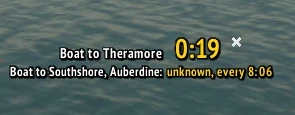
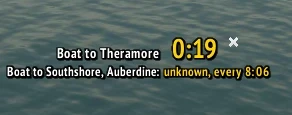
Goblin Ledger: review fixes: bag panel follows the tooltip's live price and ~, phone-sized boat photo
Addon (the stack line itself was already right; these are the surfaces
around it):
- The bag panel now takes the same live price as the tooltip (Core's
  liveFor, exported as ns.TooltipLive): a browse row newer than the loaded
  listings moves both, so the panel's value is the tooltip's stack line.
- The panel's rough flag follows the stack line's "~": with old prices it
  is exact only at the live Sell now; someone dumping (stack at the usual
  price from the file) stays rough, as the tooltip marks it.
- Bags.lua's comment no longer says the totals differ by a few copper.

Harness:
- Every stack line check now also compares the "~": the stack has one
  exactly when the sell line it follows has one (no model).
- stack-photo: 4-hour-old prices with live listings (elixir: no ~, 32,661;
  dumped: ~46,531 at Sell at) and a newer browse row (both 37,981), each on
  the tooltip and the bag panel; the sell-frame check compares the button's
  price with the tooltip's parsed stack instead of two constants.
- tooltip_values_ok reads "AH value (live, x20)".
- Deliberate breaks (stack ~ always with old prices; ~ dropped at Sell at;
  panel on listings only; panel rough rule "not live"; no ns.TooltipLive)
  each fail stack-photo on sim and real data.

Page:
- boat-docked is 296 x 230 (was 430 x 240), so it shows 1:1 on 360 and
  390 px phones and in the two-up tiles; bits of a nameplate behind the
  timer's words are painted over too.
[…]

Changed region(s): [[0.0, 0.3913, 0.9247, 0.7043], [0.5856, 0.313, 0.8322, 0.5217]]

diff --git a/goblin-ledger/index.html b/goblin-ledger/index.html
@@ -11,7 +11,9 @@
 
   PICTURES. Real photos (from the game, 21 Nov 2026, Goblin Ledger 1.1.0;
   cropped, no names in them), at their own pixel size (never scaled up,
-  smaller only in a narrower tile):
+  smaller only in a narrower tile). The ones cut from PNGs are lossless WebP
+  (lossy WebP blurs the coloured game text); the rest came as lossy WebP
+  and are saved at quality 90:
 
     img/tooltip-gloves.webp      233 x 281  worn gear: AH value, usual price, Sell now,
                                             best enchant (the end of a name in the window
@@ -22,9 +24,11 @@
     img/consumes.webp            538 x 223  the Consumes panel only (a nameplate behind it
                                             showed through: painted over). On phones it
                                             scrolls sideways at full size.
-    img/boat-countdown.webp      295 x 115  the big boat timer over the sea at Menethil
-    img/boat-docked.webp         430 x 240  the ship docked at Theramore (two tiny
-                                            nameplates on the deck: painted over)
+    img/boat-countdown.webp      292 x 115  the big boat timer over the sea at Menethil
+    img/boat-docked.webp         296 x 230  the ship docked at Theramore (two tiny
+                                            nameplates on the deck and bits of one
+                                            behind the timer's words: painted over);
+                                            narrow, so it shows 1:1 on a phone
     img/crafts-chest.webp        214 x 237  a crafted chest from its Sell Price line down:
                                             Make, Mats, enchant tips (the maker's line
                                             above is left out)
@@ -508,7 +512,7 @@ kbd {
             <a href="img/tooltip-elixir.webp"><img src="img/tooltip-elixir.webp" width="261" height="131" loading="lazy" decoding="async"
                alt="Screenshot of the tooltip for 20 Elixir of Strength with Shift held: Auction it, 21x vendor; AH value for 20, 3 gold 44 silver, 29% under usual; usual price 4 gold 89 silver 80 copper; Sell now 3 gold 43 silver 80 copper."></a>
           </div>
-          <figcaption class="cap"><span class="tag tag-real">Real screenshots</span>cropped</figcaption>
+          <figcaption class="cap"><span class="tag tag-real">Real screenshots</span></figcaption>
         </figure>
         <div class="tile-body">
           <h3>Prices on every item</h3>
@@ -567,7 +571,7 @@ kbd {
         <figure class="stage">
           <div class="shot-scroll">
             <a href="img/consumes.webp"><img src="img/consumes.webp" width="538" height="223" loading="lazy" decoding="async"
-               alt="Screenshot of the Goblin Ledger Consumes panel for melee, level 50, with Best and All buttons. FOOD - 1 at a time: Poached Sunscale Salmon best, Smoked Desert Dumplings best, Grilled Squid 62%, Flank au Poivre 50%. ELIXIRS - 3 at once: Mongoose best, or Greater Agility 33%; Greater Strength 66%, or Elixir of Strength 26%; Winterfall Firewater 31%, or Distilled Firewater 31%. STONES AND OILS, POTIONS, and SCROLLS - 2 at once: Strength III best, or Strength II 69%; Agility III 50%, or Agility II 34%. Each row has its price."></a>
+               alt="Screenshot of the Goblin Ledger Consumes panel for melee, level 50, with Best and All buttons. FOOD - 1 at a time: Poached Sunscale Salmon best, Smoked Desert Dumplings best, Grilled Squid 62%, Flank au Poivre 50%. ELIXIRS - 3 at once: Mongoose best, or Greater Agility 33%; Greater Strength 66%, or Elixir of Strength 26%; Winterfall Firewater 31%, or Distilled Firewater 31%. STONES AND OILS: Dense Weightstone and Dense Sharpening Stone, both best. POTIONS: four, each best. SCROLLS - 2 at once: Strength III best, or Strength II 69%; Agility III 50%, or Agility II 34%. Each row has its price."></a>
           </div>
           <figcaption class="cap"><span class="tag tag-real">Real screenshot</span><span class="swipe">swipe to see it all</span></figcaption>
         </figure>
@@ -614,12 +618,12 @@ kbd {
       <article class="tile">
         <figure class="stage">
           <div class="pair">
-            <a href="img/boat-countdown.webp"><img src="img/boat-countdown.webp" width="295" height="115" loading="lazy" decoding="async"
+            <a href="img/boat-countdown.webp"><img src="img/boat-countdown.webp" width="292" height="115" loading="lazy" decoding="async"
                alt="Screenshot at the Menethil Harbor dock: the big Goblin Ledger boat timer over the sea, Boat to Theramore 0:19 with a small X, and under it Boat to Southshore, Auberdine: unknown, every 8:06."></a>
-            <a href="img/boat-docked.webp"><img src="img/boat-docked.webp" width="430" height="240" loading="lazy" decoding="async"
+            <a href="img/boat-docked.webp"><img src="img/boat-docked.webp" width="296" height="230" loading="lazy" decoding="async"
                alt="Screenshot at the Theramore dock with the ship in: the big boat timer says Boat to Menethil: docked, leaves in 0:58."></a>
           </div>
-          <figcaption class="cap"><span class="tag tag-real">Real screenshots</span>cropped</figcaption>
+          <figcaption class="cap"><span class="tag tag-real">Real screenshots</span></figcaption>
         </figure>
         <div class="tile-body">
           <h3>Boat timer</h3>
@@ -637,7 +641,7 @@ kbd {
         <figure class="stage">
           <a href="img/crafts-chest.webp"><img src="img/crafts-chest.webp" width="214" height="237" loading="lazy" decoding="async"
              alt="Screenshot of the lower part of a crafted Veteran's Silvered Chain Shirt tooltip: Sell Price 24 silver 64 copper; Make: 20 Bronze Bar 29 silver 40 copper (from 10 Copper Bar and 10 Tin Bar), 6 Pristine Leather 29 silver 40 copper, plus 3 others; Mats: 1 gold 9 silver; then its enchant tips, Top 5, best Greater Stats +4 about 49 gold."></a>
-          <figcaption class="cap"><span class="tag tag-real">Real screenshot</span>cropped</figcaption>
+          <figcaption class="cap"><span class="tag tag-real">Real screenshot</span></figcaption>
         </figure>
         <div class="tile-body">
           <h3>Crafting profit</h3>
@@ -783,7 +787,7 @@ kbd {
         <h3>Updates</h3>
         <ul class="ticks">
           <li>Prices update by themselves every 30 min; <code>/reload</code> loads them</li>
-          <li>3+ hours old? They get a ~ and the tooltip says what to do</li>
+          <li>3+ hours old? Prices get a ~ and the tooltip says what to do (on enchant costs, ~ just means about)</li>
           <li>New versions install by themselves (if you said yes)</li>
           <li>Or a chat line says one is out: <code class="nw">/gl update</code> says how</li>
           <li>Had 1.0.0? Download the zip again and run its installer once</li>

diff --git a/tools/wow/addon_test/harness.py b/tools/wow/addon_test/harness.py
@@ -4412,19 +4412,26 @@ def verdict_line_ok(sc, ref, iid, lines, label, tf="1D", live=None, own=False, c
             sc.eq(parse_coins(r), display_copper(V["unit"] * n * 95 // 100), "%s: the stack at the verdict's price" % label)
 
 
-def stack_vs_sell_line(sc, lines, mult, n, stack, label):
-    """No model: the stack line is the price on the sell line the tooltip shows
-    (Sell at when that line shows, else Sell now: the price its button fills)
-    times n, less the 5% cut. Never more than that line times n. The sell
-    lines show the price times mult (Shift); copper is dropped from 100g up."""
-    sell = None
+def stack_vs_sell_line(sc, lines, mult, n, stack_text, label):
+    """No model: the stack line (stack_text, its right side as shown) is the
+    price on the sell line the tooltip shows (Sell at when that line shows,
+    else Sell now: the price its button fills) times n, less the 5% cut. Never
+    more than that line times n. It has a "~" (an old price from the file)
+    exactly when that sell line has one. The sell lines show the price times
+    mult (Shift); copper is dropped from 100g up."""
+    sell = sell_text = None
     for left, right in lines:
         base = (left or "").split(" (x")[0]
         if base == "Sell at" or (base.startswith("Sell now") and sell is None):
-            sell = parse_coins((right or "").lstrip("~"))
+            sell_text = right or ""
+            sell = parse_coins(sell_text.lstrip("~"))
+    stack_text = stack_text or ""
+    stack = parse_coins(stack_text.lstrip("~"))
     if not sc.check(sell is not None and sell > 0 and stack is not None,
                     "%s: a stack line has a sell line above it (%s)" % (label, lines)):
         return
+    sc.eq(stack_text.startswith("~"), sell_text.startswith("~"),
+          "%s: the stack has a ~ exactly when the sell line it follows has one (%r, %r)" % (label, stack_text, sell_text))
     sc.check(stack * mult <= sell * n, "%s: the stack (%d) is not above the sell line x %d (%d / %d)" % (label, stack, n, sell, mult))
     if sell < 1000000 and sell % mult == 0:
         sc.eq(stack, display_copper((sell // mult) * n * 95 // 100),
@@ -4444,7 +4451,9 @@ def tooltip_values_ok(sc, ref, iid, lines, mult, label, live=None, tf="1D", own=
     for left, right in lines:
         base = (left or "").split(" (x")[0]
         if base.startswith("Sell now (") and "% under usual)" in base:
-            base = "Sell now (live)" if base.startswith("Sell now (live)") else "Sell now"
+            base = "Sell now (live)" if base.startswith("Sell now (live") else "Sell now"
+        if base.startswith("AH value (live, x"):   # Shift held: "AH value (live, x20)"
+            base = "AH value (live)"
         coins = (right or "").split("  ")[0].split(", ")[0].lstrip("~")   # "+3% vs usual" after two spaces; "~", ", 3h old"
         if base in want and coins and parse_coins(coins) is not None:
             seen.add(base)
@@ -4457,7 +4466,7 @@ def tooltip_values_ok(sc, ref, iid, lines, mult, label, live=None, tf="1D", own=
             if V and V["unit"]:
                 sc.eq(parse_coins(right.lstrip("~")), display_copper(rec_model.stack_after_cut(V["unit"], n)),
                       "%s stack of %d at the verdict's price" % (label, n))
-            stack_vs_sell_line(sc, lines, mult, n, parse_coins(right.lstrip("~")), label)
+            stack_vs_sell_line(sc, lines, mult, n, right, label)
     if it["market"] > 0 or live:
         sc.check(("AH value (live)" if live else "AH value") in seen, "%s: AH value shown (%s)" % (label, sorted(seen)))
     at_line = P["at"] is not None and (P["now"] is None or P["under"] is not None)
@@ -12030,7 +12039,11 @@ def sc_stack_photo(sc, ref, items):
     someone dumping it (Sell now 51% under the usual price): the stack is at
     the Sell at line, the price the Sell at button fills (4g 65s 31c, not at
     Sell now or the AH value). The bag panel values both stacks the same, and
-    the sell frame's buttons fill those prices."""
+    the sell frame's buttons fill those prices. With 4-hour-old prices and the
+    AH open (live listings at 17s 20c and 12s), the stack's "~" follows its
+    sell line: none at the live Sell now, "~" at the dumped one's Sell at (the
+    usual price, from the file), and the bag panel's rough flag with it. A
+    newer browse row (20s) moves the tooltip and the bag panel alike."""
     picks = [i for i in other_items(ref, items, 80, avoid=SIDEBAR_WATCH)
              if ref.items[i]["cheapest"] >= 3 and ref.items[i]["market"] > 0 and i not in ref.variants]
     if not sc.check(len(picks) >= 2, "photo: enough items to test with"):
@@ -12045,15 +12058,36 @@ def sc_stack_photo(sc, ref, items):
         return [fl[0]] + made[iid].split("|") if iid in made else None
     text = rewrite_items(ref.text, fn)
     r2 = RefData(text=text)
-    w = World(r2, items, data_src=text)
+
+    def photo_world(now=None):
+        w = World(r2, items, data_src=text, now=now)
+        for iid in made:
+            w.M["items"][iid].vendor = 75     # the game's vendor price, as in the data
+            w.M["items"][iid].quality = 1
+        w.put_bag(0, 1, e, 20)
+        w.put_bag(0, 2, f, 20)
+        return w
+
+    def hover(w, slot, shift):
+        tt = w.g.GameTooltip
+        w.M.shift = shift
+        tt.SetOwner(tt, w.g.UIParent, "ANCHOR_RIGHT")
+        tt.SetBagItem(tt, 0, slot)
+        lines = w.lines(tt)
+        w.M.shift = False
+        return lines
+
+    def panel(w):
+        s = w.ns.BagScan()
+        rows = {(s.drop[i].bag, s.drop[i].slot): s.drop[i] for i in range(1, len(s.drop) + 1)}
+        return {slot: ((rows[(0, slot)].source, rows[(0, slot)].value, bool(rows[(0, slot)].unsure))
+                       if (0, slot) in rows else None) for slot in (1, 2)}
+
+    w = photo_world()
     ns, M = w.ns, w.M
-    for iid in made:
-        M["items"][iid].vendor = 75     # the game's vendor price, as in the data
-        M["items"][iid].quality = 1
     tt = w.g.GameTooltip
     age = w.now - r2.updated
-    w.put_bag(0, 1, e, 20)
-    w.put_bag(0, 2, f, 20)
+    stacks = {}   # the tooltip's stack line, in copper
     want_lines = {
         e: [("Auction it", "21x vendor"), ("Usual price (x20)", money_icons(48980)), ("Sell now (x20)", money_icons(34380)),
             ("This stack (20), after AH cut", money_icons(32661))],
@@ -12074,6 +12108,8 @@ def sc_stack_photo(sc, ref, items):
             tooltip_style_ok(sc, w, tt, want_st, lab)
             stack = [r for l, r in lines if l.startswith("This stack")]
             sc.eq(stack, [want_lines[iid][-1][1]], lab + ": the stack line")
+            if len(stack) == 1:
+                stacks[iid] = parse_coins(stack[0])
             if shift:
                 for x in want_lines[iid]:
                     sc.check(x in lines, "%s: %r (%s)" % (lab, x, lines))
@@ -12083,12 +12119,9 @@ def sc_stack_photo(sc, ref, items):
                              "%s: AH value (x20) 3g 44s, -29%% vs usual (%s)" % (lab, ah))
     M.shift = False
     # the bag panel: the same stacks, the same values
-    s = ns.BagScan()
-    rows = {(s.drop[i].bag, s.drop[i].slot): s.drop[i] for i in range(1, len(s.drop) + 1)}
+    got = panel(w)
     for slot, value in ((1, 32661), (2, 46531)):
-        r = rows.get((0, slot))
-        got = (r.source, r.value) if r else None
-        sc.check(got == ("auction", value), "photo: the bag panel values the stack in 0:%d at %d (%r)" % (slot, value, got))
+        sc.eq(got[slot], ("auction", value, False), "photo: the bag panel values the stack in 0:%d at %d" % (slot, value))
     # the game's sell frame: Sell now fills 17s 19c; dumped, Sell at fills 24s 49c
     w.open_ah_modern()
     ah = w.g.AuctionHouseFrame
@@ -12100,7 +12133,60 @@ def sc_stack_photo(sc, ref, items):
         want = ref_buttons(r2, iid, "1D")
         buttons_ok(sc, pair, want, "photo sell frame %d" % slot)
         sc.eq(pair[kind].price, price, "photo sell frame %d: the button the tooltip's stack follows fills %d" % (slot, price))
-        sc.eq(price * 20 * 95 // 100, (32661, 46531)[slot - 1], "photo sell frame %d: the stack line is that price x 20 less 5%%" % slot)
+        sc.eq(pair[kind].price * 20 * 95 // 100 if pair[kind].price else None, stacks.get(iid),
+              "photo sell frame %d: the tooltip's stack line is that button's price x 20 less 5%%" % slot)
+    w.close_ah_modern()
+    sc.clean(w)
+
+    # Prices 4 hours old (stale: "~" on what comes from the file) with the AH open. The elixir
+    # listed live at 17s 20c: Sell now (live) 17s 19c, from now, so its stack 32,661 has no "~".
+    # The dumped one listed live at 12s: Sell now (live, 51% under usual) 11s 99c; its stack is at
+    # the Sell at line, the usual price from the file: "~" 46,531, as that line. The bag panel's
+    # rough flag ("~", "about") is the stack line's "~".
+    w = photo_world(now=r2.updated + 4 * 3600)
+    M = w.M
+    age = w.now - r2.updated
+    w.open_ah_modern()
+    for iid, lp in ((e, 1720), (f, 1200)):
+        w.set_commodity_results(iid, [(lp, 30, False)])
+        M.fire("COMMODITY_SEARCH_RESULTS_UPDATED", iid)
+    w.settle(0.3)
+    old_live = {
+        e: [("Sell now (live) (x20)", money_icons(34380)), ("This stack (20), after AH cut", money_icons(32661))],
+        f: [("Sell now (live, 51% under usual) (x20)", money_icons(23980)), ("Sell at (x20)", "~" + money_icons(48980)),
+            ("This stack (20), after AH cut", "~" + money_icons(46531))],
+    }
+    for slot, iid, lp in ((1, e, 1720), (2, f, 1200)):
+        sc.eq(w.live(iid), lp, "photo old + live: the listing at %d read" % lp)
+        for shift in (True, False):
+            lines = hover(w, slot, shift)
+            mult = 20 if shift else 1
+            lab = "photo old + live %s%s" % ("dumped" if iid == f else "elixir", " Shift" if shift else "")
+            want = expected_tooltip(r2, iid, age, mult=mult, count=20, live=lp, loaded_age=age)
+            sc.eq(lines, want, lab + " tooltip")
+            tooltip_values_ok(sc, r2, iid, lines, mult, lab, live=lp)
+            sc.eq([r for l, r in lines if l.startswith("This stack")], [old_live[iid][-1][1]], lab + ": the stack line")
+            if shift:
+                for x in old_live[iid]:
+                    sc.check(x in lines, "%s: %r (%s)" % (lab, x, lines))
+    got = panel(w)
+    sc.eq(got[1], ("auction", 32661, False), "photo old + live: the bag panel's elixir, exact (the live Sell now)")
+    sc.eq(got[2], ("auction", 46531, True), "photo old + live: the bag panel's dumped stack, rough (the usual price, old)")
+    # A newer browse row (searched again): 20s for both. The tooltip sells at 19s 99c (not dumped any
+    # more: 82% of the usual price), live, so 37,981 with no "~"; the bag panel gives the same.
+    w.tick(1, 0.5)
+    es_search(w, "c", results=[(e, 2000, 50), (f, 2000, 50)])
+    for slot, iid in ((1, e), (2, f)):
+        lab = "photo old + browse row %s" % ("dumped" if iid == f else "elixir")
+        sc.eq(w.ns.LivePrice(iid), (2000, False, "browse"), lab + ": ns.LivePrice is the browse row")
+        lines = hover(w, slot, False)
+        want = expected_tooltip(r2, iid, age, count=20, live=2000, loaded_age=age)
+        sc.eq(lines, want, lab + " tooltip")
+        tooltip_values_ok(sc, r2, iid, lines, 1, lab, live=2000)
+        sc.eq([r for l, r in lines if l.startswith("This stack")], [money_icons(37981)], lab + ": the stack line")
+    got = panel(w)
+    for slot in (1, 2):
+        sc.eq(got[slot], ("auction", 37981, False), "photo old + browse row: the bag panel in 0:%d, as the tooltip" % slot)
     w.close_ah_modern()
     sc.clean(w)
 
